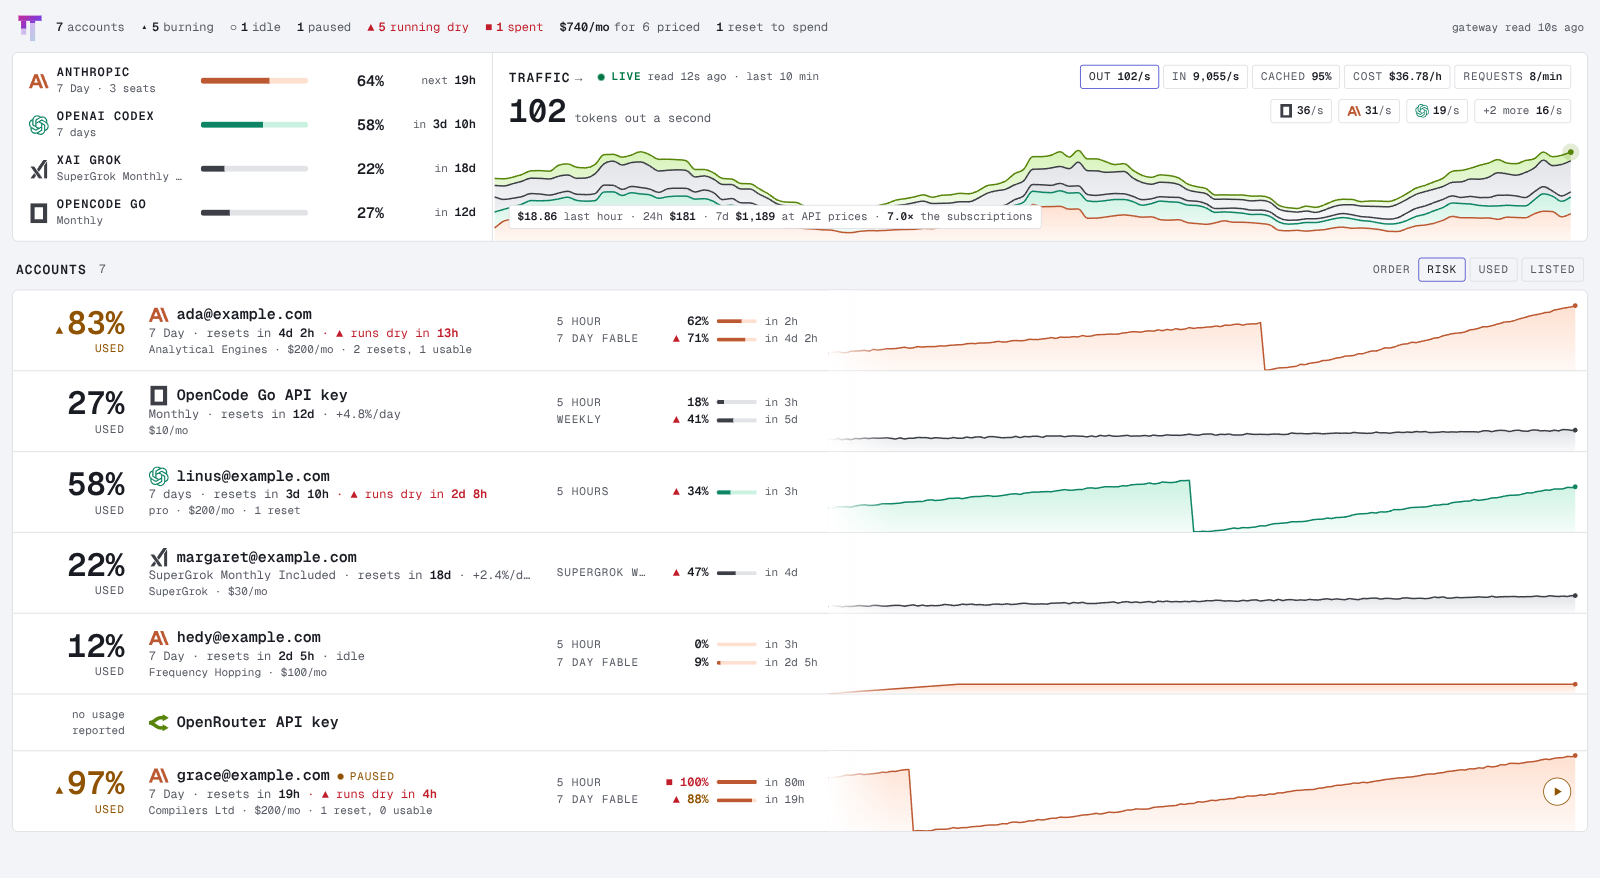
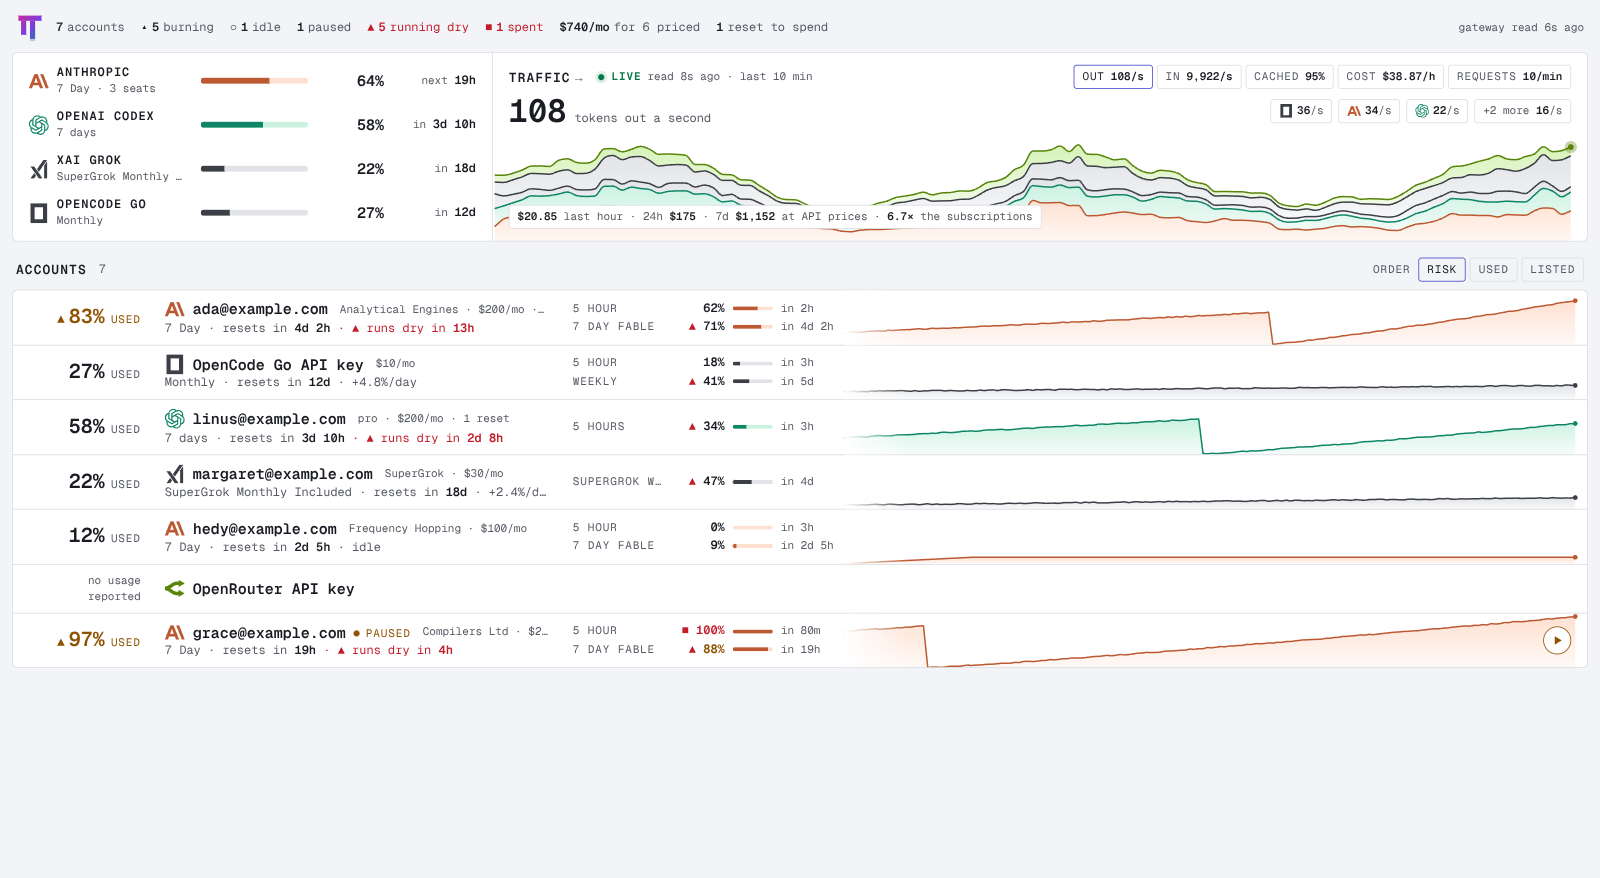
Make a wide row two lines high
Desktop rows were about 80px for what fits in two lines. On a wide screen
the figure now sits on one line with its word, in heading size; the
organisation, plan and price follow the name in small type, truncating
before the name does; the main window takes the second line; and the row
pads by 8px, not 12. Rows are 55px. The chart starts 4 units later, past
the wider figure column. Narrow rows are unchanged. README screenshots
regenerated.

diff --git a/web/src/pages/accounts/components/AccountRow.tsx b/web/src/pages/accounts/components/AccountRow.tsx
@@ -273,7 +273,7 @@ export function AccountRow({ account, trends, start, now, controls, headingLevel
               the row. Its stops take the text colour, which is how a gradient wears a token.
               On a wide screen it starts where the words end and runs to the row's end; on a
               narrow one it runs behind the whole row, the words over it. */}
-          <div data-testid="history" aria-hidden="true" className="absolute inset-y-0 right-3 left-0 lg:left-204">
+          <div data-testid="history" aria-hidden="true" className="absolute inset-y-0 right-3 left-0 lg:left-208">
             <svg
               viewBox={`0 0 ${WIDTH} ${HEIGHT}`}
               preserveAspectRatio="none"
@@ -314,7 +314,7 @@ export function AccountRow({ account, trends, start, now, controls, headingLevel
           {/* The chart fades in from the ground at its start. */}
           <div
             aria-hidden="true"
-            className="absolute inset-y-0 left-0 w-16 bg-linear-to-r from-surface to-transparent lg:left-204"
+            className="absolute inset-y-0 left-0 w-16 bg-linear-to-r from-surface to-transparent lg:left-208"
           />
         </>
       )}
@@ -322,13 +322,16 @@ export function AccountRow({ account, trends, start, now, controls, headingLevel
       <div
         className={clsx(
           // On a narrow row the words sit over the chart, haloed in the ground so its line never strikes them.
-          'relative flex flex-wrap items-start gap-x-4 gap-y-2 px-4 py-3 text-shadow-halo lg:items-center lg:gap-x-6',
-          drawn ? 'min-h-20' : 'min-h-14'
+          'relative flex flex-wrap items-start gap-x-4 gap-y-2 px-4 py-3 text-shadow-halo lg:items-center lg:gap-x-6 lg:py-2',
+          // Two lines high on a wide screen; a narrow row keeps room for its chart.
+          drawn ? 'min-h-20 lg:min-h-0' : 'min-h-14 lg:min-h-0'
         )}
       >
         {primary && used !== undefined ? (
-          <p className="w-24 shrink-0 lg:text-right">
-            <span className={clsx('block text-display font-semibold tabular-nums', figureClasses[severity])}>
+          <p className="w-24 shrink-0 lg:flex lg:w-28 lg:items-baseline lg:justify-end lg:gap-1.5">
+            <span
+              className={clsx('block text-display font-semibold tabular-nums lg:text-heading', figureClasses[severity])}
+            >
               {marked && (
                 <span aria-hidden="true" className="mr-1 text-body">
                   {marked.mark}
@@ -346,12 +349,19 @@ export function AccountRow({ account, trends, start, now, controls, headingLevel
             </span>
           </p>
         ) : (
-          <p className="w-24 shrink-0 text-micro text-muted lg:text-right">no usage reported</p>
+          <p className="w-24 shrink-0 text-micro text-muted lg:w-28 lg:text-right">no usage reported</p>
         )}
 
-        <div className="flex min-w-0 flex-1 flex-col lg:w-96 lg:flex-none">
+        {/* Three lines on a narrow screen. On a wide one, two: the name with what follows it
+            in small type, then the main window. */}
+        <div className="flex min-w-0 flex-1 flex-col lg:w-96 lg:flex-none lg:flex-row lg:flex-wrap lg:items-center lg:gap-x-3">
           {/* On a narrow row the button sits at the end of this line, so only the name gives way to it. */}
-          <div className={clsx('flex items-center gap-2 text-muted', pausable && 'pr-8 lg:pr-0')}>
+          <div
+            className={clsx(
+              'flex min-w-0 items-center gap-2 text-muted lg:max-w-full lg:shrink-0',
+              pausable && 'pr-8 lg:pr-0'
+            )}
+          >
             <ProviderIcon provider={account.provider} size="md" />
             <Heading id={headingId} className="min-w-0 truncate text-title font-semibold text-foreground">
               <Link
@@ -370,7 +380,7 @@ export function AccountRow({ account, trends, start, now, controls, headingLevel
             )}
           </div>
           {primary && (
-            <p className="truncate text-caption text-muted">
+            <p className="truncate text-caption text-muted lg:order-2 lg:basis-full">
               {shortLimitLabel(primary)}
               {reset && (
                 <>
@@ -392,7 +402,11 @@ export function AccountRow({ account, trends, start, now, controls, headingLevel
               )}
             </p>
           )}
-          {meta && <p className="truncate text-micro text-muted">{meta}</p>}
+          {meta && (
+            <p title={meta} className="truncate text-micro text-muted lg:order-1 lg:min-w-0 lg:flex-1">
+              {meta}
+            </p>
+          )}
         </div>
 
         {/* A line of their own under a narrow row; a column beside the name on a wide one. */}

diff --git a/web/src/pages/accounts/components/AccountRow.test.tsx b/web/src/pages/accounts/components/AccountRow.test.tsx
@@ -57,7 +57,7 @@ describe('AccountRow', () => {
   it('gives the chart the rest of the row on a wide screen, clear of the words', () => {
     render(<AccountRow {...base} account={seatFixture} />);
 
-    expect(screen.getByTestId('history')).toHaveClass('lg:left-204');
+    expect(screen.getByTestId('history')).toHaveClass('lg:left-208');
     // Nothing written is drawn over it: the words end where it starts.
     expect(screen.getByRole('list', { name: 'Other windows' })).toHaveClass('lg:w-64');
   });
